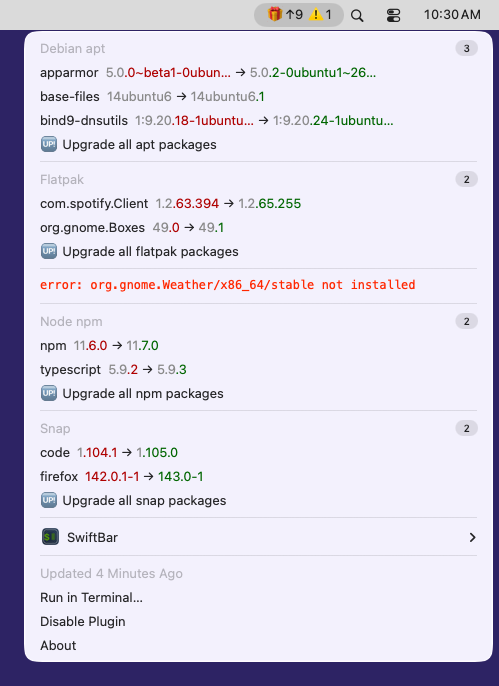
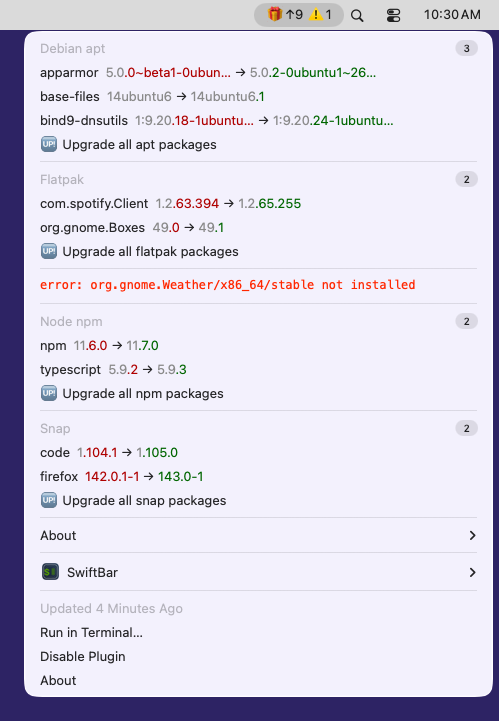
Add SwiftBar's About submenu and preferences pane to the plugin page

diff --git a/docs/bar-plugin.md b/docs/bar-plugin.md
@@ -35,6 +35,42 @@ SwiftBar renders two things differently from Xbar: the outdated count sits in a 
 
 These variables only drive the menu layout: everything else comes from `mpm`'s own configuration file, which applies to every run the plugin triggers. See {doc}`configuration` for the search paths and the full schema.
 
+SwiftBar exposes them in its preferences, under *Code Plugins*. The pane opens on the plugin's metadata and cannot be resized, so the variables and the *Save in Plugin File* button sit below its fold ([swiftbar/SwiftBar#555](https://github.com/swiftbar/SwiftBar/issues/555)): scroll down to reach them.
+
+``````{tab-set}
+`````{tab-item} Light
+:sync: light
+
+````{grid} 1 2 2 2
+```{grid-item-card} As the pane opens
+:img-top: assets/swiftbar-preferences-light.png
+:link: /_images/swiftbar-preferences-light.png
+```
+
+```{grid-item-card} Scrolled down to the variables
+:img-top: assets/swiftbar-preferences-variables-light.png
+:link: /_images/swiftbar-preferences-variables-light.png
+```
+````
+`````
+
+`````{tab-item} Dark
+:sync: dark
+
+````{grid} 1 2 2 2
+```{grid-item-card} As the pane opens
+:img-top: assets/swiftbar-preferences-dark.png
+:link: /_images/swiftbar-preferences-dark.png
+```
+
+```{grid-item-card} Scrolled down to the variables
+:img-top: assets/swiftbar-preferences-variables-dark.png
+:link: /_images/swiftbar-preferences-variables-dark.png
+```
+````
+`````
+``````
+
 A macOS menu cannot scroll sideways, so `VAR_MAX_VERSION_WIDTH` keeps a row from outgrowing it. A version longer than the cap is shortened with an `…`, always on the side the two versions have in common, so the characters telling them apart stay on screen. SwiftBar carries the untruncated pair in the item tooltip. Homebrew casks are what makes this necessary: their `version,revision` pairs run to 50 characters, against 17 for the longest version anyone reads. Set the variable to `0` to render every version whole.
 
 ## Menu actions
@@ -240,6 +276,26 @@ The plugin prefers the `mpm` it is part of. It ships inside the package, so it w
 Failing that, it falls back to an `mpm` on the `PATH`, then to the module under the interpreter running the plugin, and under `python3`. Every candidate is run before it is ranked, so an unusable one is skipped instead of being picked.
 
 The menu answers that in place. Its last row, *About*, expands to three lines: the version this script advertises to its host, the release of the `mpm` it resolved, and the command that answered. The two are installed separately, so a bug report needs both: a plugin file copied into the host's folder stays at the version it was copied at while `mpm` moves under it.
+
+``````{tab-set}
+`````{tab-item} Light
+:sync: light
+
+```{image} assets/swiftbar-about-light.png
+:alt: The About submenu of the plugin, naming the mpm it resolved
+:align: center
+```
+`````
+
+`````{tab-item} Dark
+:sync: dark
+
+```{image} assets/swiftbar-about-dark.png
+:alt: The About submenu of the plugin, naming the mpm it resolved
+:align: center
+```
+`````
+``````
 
 When no candidate answers, or the one that answers is older than the version the plugin requires, the menu carries a bootstrap pair in place of the package list: an *Install mpm with uv* entry running `uv tool install --upgrade meta-package-manager`, and an *Open mpm installation instructions* entry opening {doc}`install` for the systems `uv` does not answer for.
 

diff --git a/.github/pr-templates/update-bar-plugin-screenshots.md b/.github/pr-templates/update-bar-plugin-screenshots.md
@@ -9,6 +9,6 @@ labels: [🔌 plugin]
 
 Refreshes the SwiftBar captures on [the plugin's page](https://mpm.run/bar-plugin/).
 
-Each one is a real screenshot: a hosted runner installs SwiftBar from its pinned release, feeds it the menu `BarPluginRenderer` produces from `docs/outdated-sample.json`, opens the menu with a real mouse event and photographs the window. Only the package data and the clocks are held still: the system clock is pinned to `10:30`, and the plugin's last run is aged five minutes so SwiftBar's *Updated N Minutes Ago* footer cannot rewrite every image on every run.
+Each one is a real screenshot: a hosted runner installs SwiftBar and Xbar from their pinned releases, hands each the plugin file itself, and plants a stand-in `mpm` serving the menu `BarPluginRenderer` produces from `docs/outdated-sample.json`. Each menu is opened with a real mouse event and photographed by window bounds, the *About* submenu is unfolded by resting the pointer on its row, and SwiftBar's preferences pane is reached through its own menu and scrolled with a real wheel event. Only the package data and the clocks are held still: the system clock is pinned to `10:30`, and the plugin's last run is aged five minutes so SwiftBar's *Updated N Minutes Ago* footer cannot rewrite every image on every run.
 
 This PR is auto-generated by `.github/workflows/docs-screenshots.yaml`. Review it as a picture: anything unexpected in the frame is the finding.
